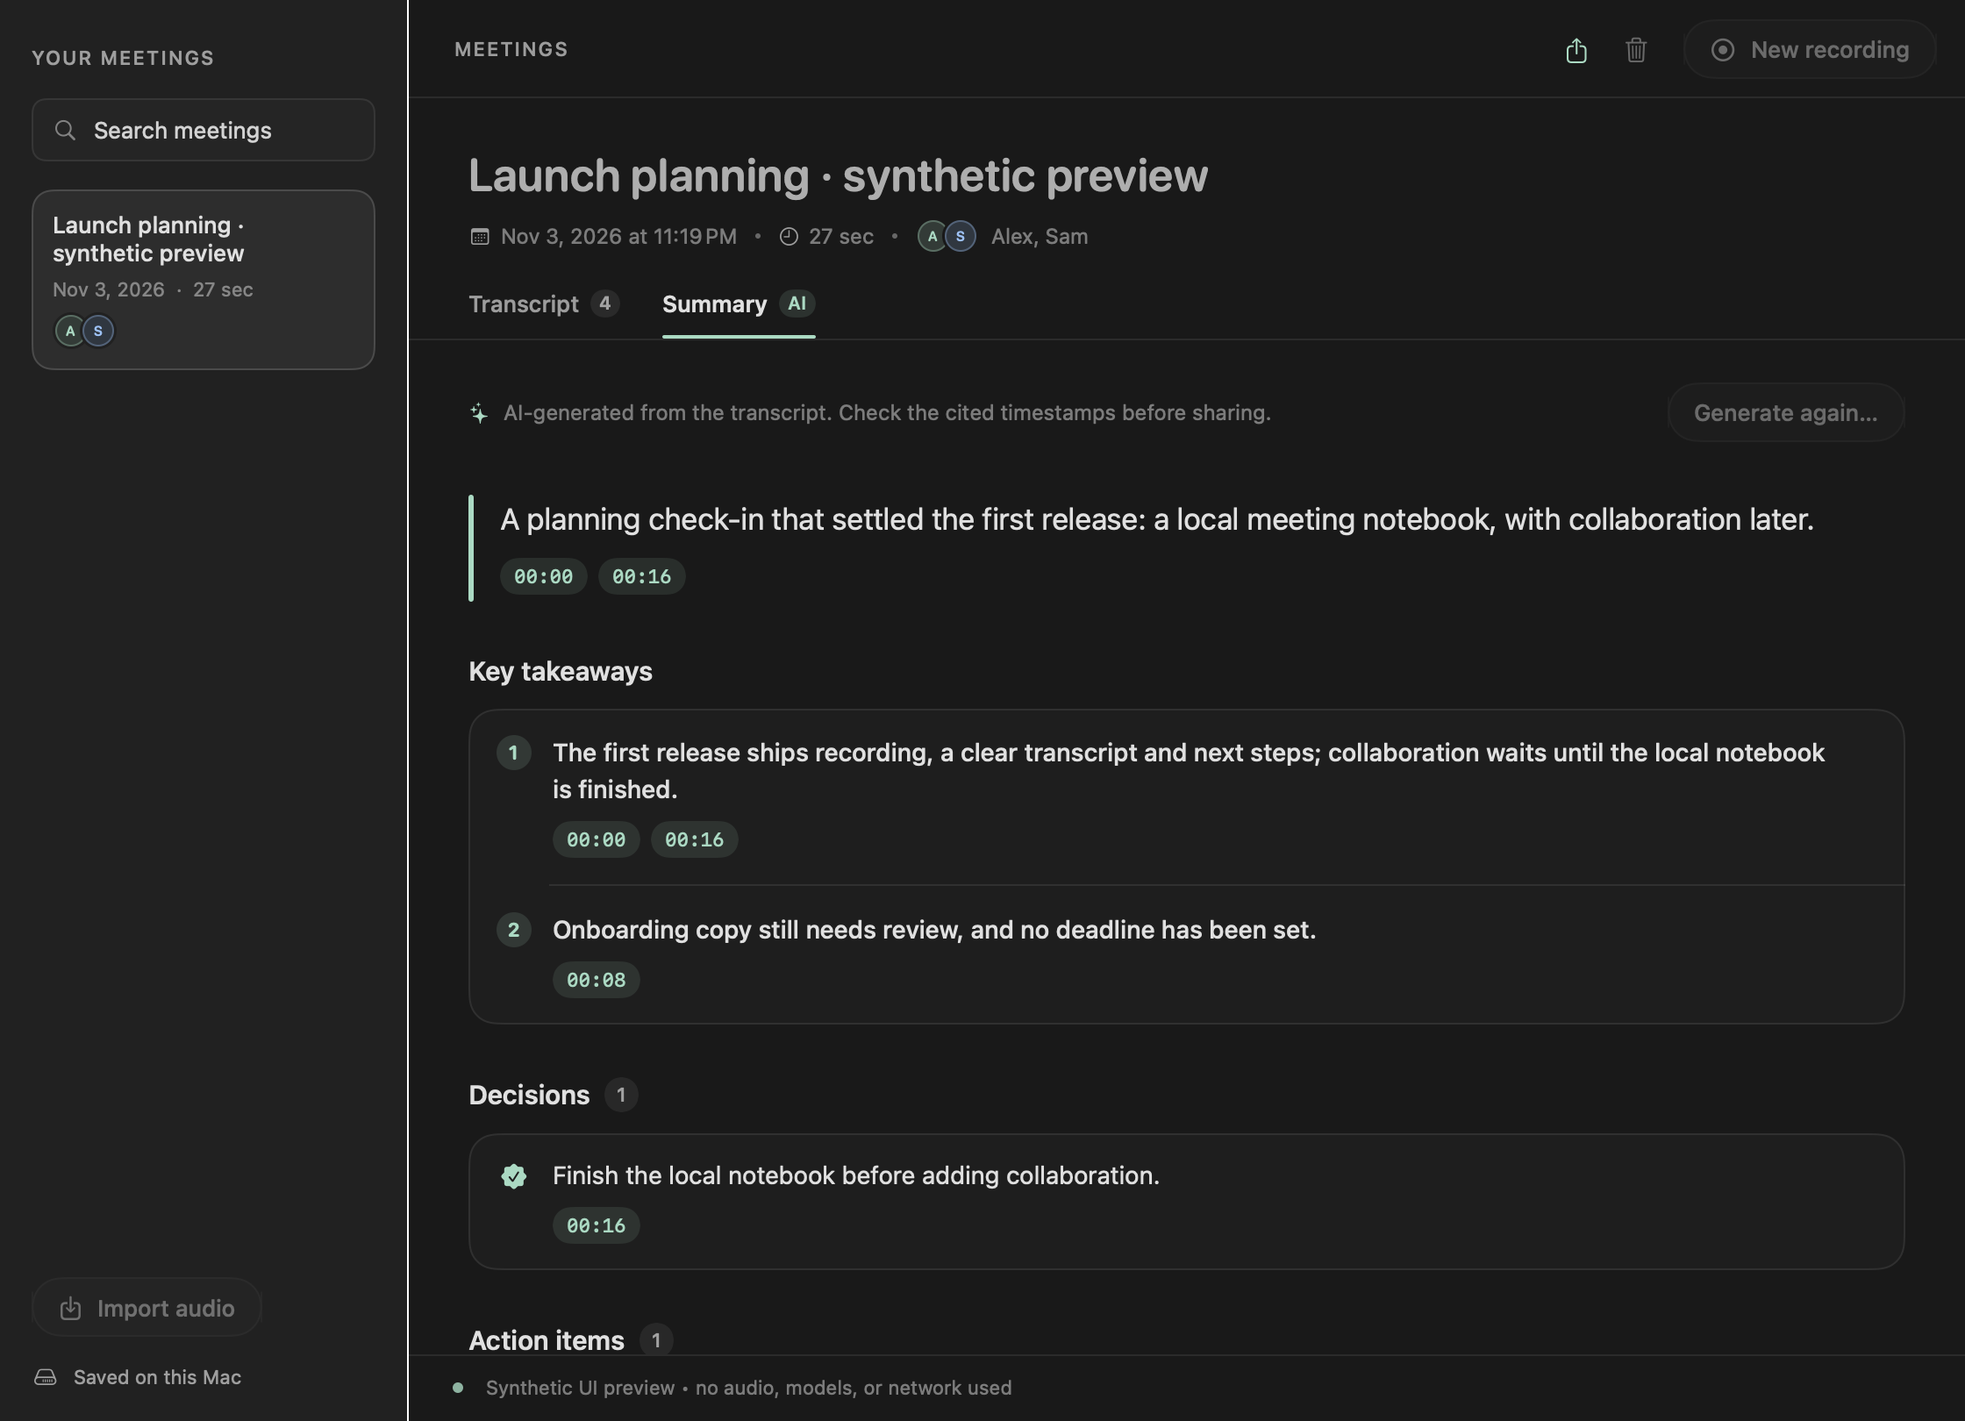
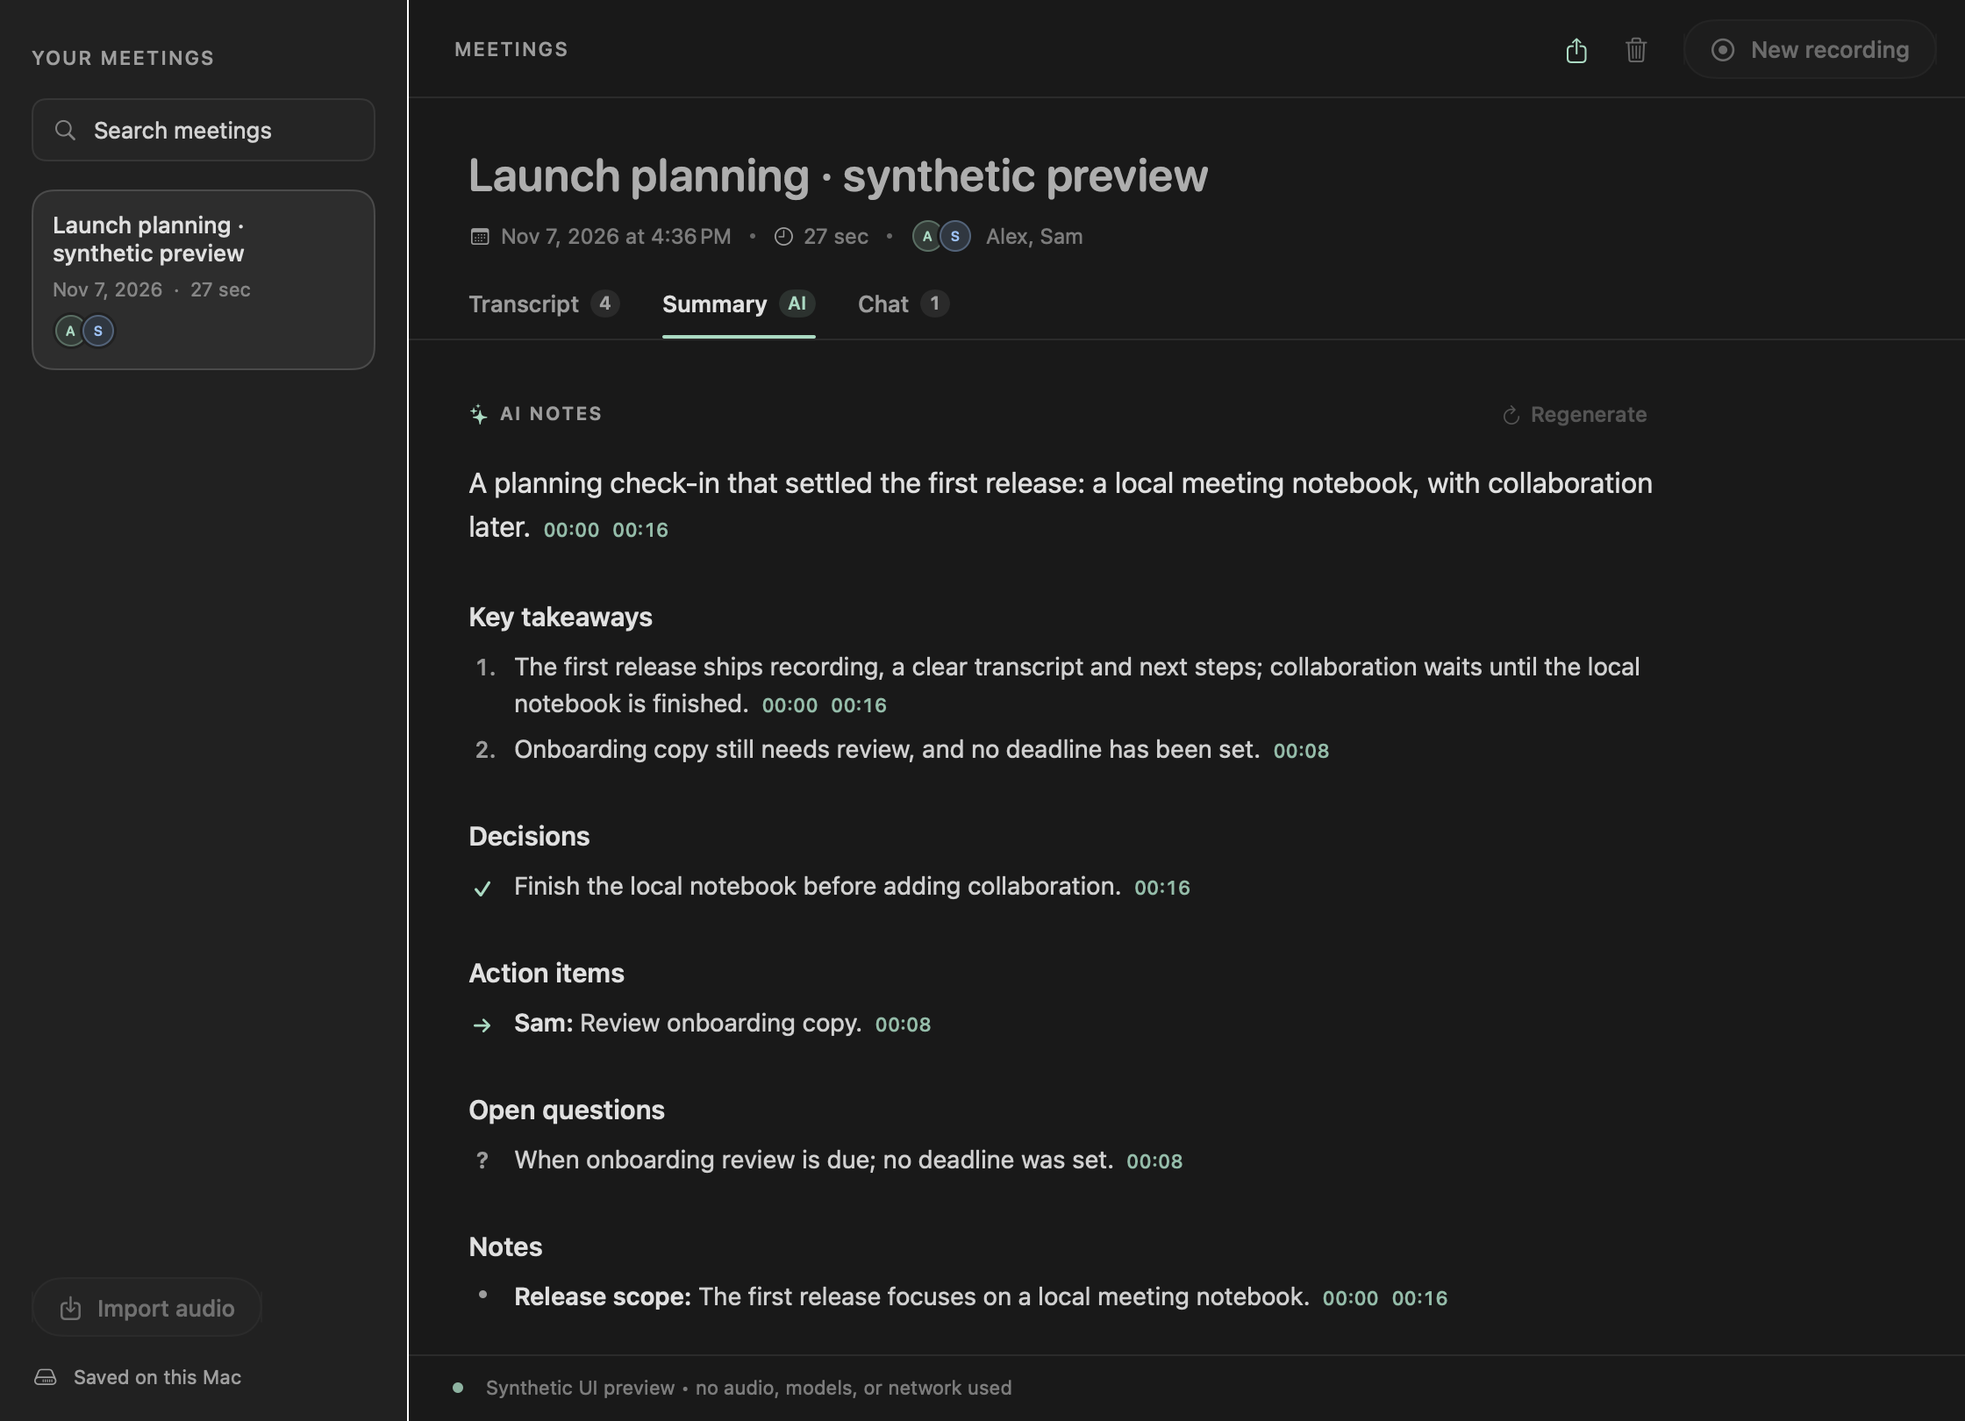
Lay out the meeting summary as a page of notes
Replace the boxed section cards and per-line timestamp chips with a
narrow reading column: plain headings, simple bullets, bold lead-ins for
owners and topics, and inline timestamp links back to the transcript.
Empty sections are left out.

diff --git a/Sources/Coda/MeetingDetailView.swift b/Sources/Coda/MeetingDetailView.swift
@@ -371,34 +371,42 @@ struct ContentView: View {
 
     // MARK: Summary
 
+    /// Reading measure for the notes; long lines are what made the old layout feel like a form.
+    private static let notesWidth: CGFloat = 680
+    private static let citationScheme = "coda-cite"
+
+    /// The summary reads as a written page of notes: headings, plain bullets and quiet
+    /// inline timestamps that jump to the transcript. No cards, no chips per line.
     private func summary(_ meeting: Meeting) -> some View {
         ScrollView {
-            VStack(alignment: .leading, spacing: 30) {
+            Group {
                 if let summary = meeting.summary {
-                    HStack(spacing: 8) {
-                        Image(systemName: "sparkles").font(.system(size: 11)).foregroundStyle(CodaStyle.mint)
-                        Text("AI-generated from the transcript. Check the cited timestamps before sharing.")
-                            .font(CodaStyle.secondaryFont).foregroundStyle(.secondary)
+                    VStack(alignment: .leading, spacing: 0) {
+                        notesHeader
+                        if let brief = summary.brief {
+                            inlineText(brief, meeting: meeting, size: 16, weight: .regular, ink: CodaStyle.ink)
+                                .lineSpacing(6).padding(.top, 18)
+                                .accessibilityLabel("Summary: " + brief.text)
+                        } else {
+                            CodaNotice(kind: .info, text: "This summary was made before Coda added a brief and key takeaways. Generate again to get them.")
+                                .padding(.top, 18)
+                        }
+                        notesSection("Key takeaways", kind: .takeaway, items: summary.takeaways, meeting: meeting)
+                        notesSection("Decisions", kind: .decision, items: summary.decisions, meeting: meeting)
+                        notesSection("Action items", kind: .action, items: summary.actions, meeting: meeting)
+                        notesSection("Open questions", kind: .question, items: summary.openQuestions, meeting: meeting)
+                        notesSection(summary.leadsWithTakeaways ? "Notes" : "Discussion notes", kind: .note,
+                                     items: summary.overview, meeting: meeting)
+                        Text("AI-generated from the transcript and can be wrong. Timestamps link to the moment they cite.")
+                            .font(CodaStyle.captionFont).foregroundStyle(CodaStyle.muted.opacity(0.8))
                             .fixedSize(horizontal: false, vertical: true)
-                        Spacer(minLength: 12)
-                        Button("Generate again…") { model.showSummaryConsent = true }
-                            .buttonStyle(CodaSecondaryButtonStyle()).disabled(model.isOccupied)
+                            .padding(.top, 40)
                     }
-                    if let brief = summary.brief {
-                        briefBlock(brief, meeting: meeting)
-                    } else {
-                        CodaNotice(kind: .info, text: "This summary was made before Coda added a brief and key takeaways. Generate again to get them.")
-                    }
-                    if !summary.takeaways.isEmpty {
-                        summarySection("Key takeaways", kind: .takeaway, items: summary.takeaways, meeting: meeting)
-                    }
-                    summarySection("Decisions", kind: .decision, items: summary.decisions, meeting: meeting)
-                    summarySection("Action items", kind: .action, items: summary.actions, meeting: meeting)
-                    if !summary.openQuestions.isEmpty {
-                        summarySection("Open questions", kind: .question, items: summary.openQuestions, meeting: meeting)
-                    }
-                    summarySection(summary.leadsWithTakeaways ? "Notes" : "Discussion notes", kind: .note,
-                                   items: summary.overview, meeting: meeting)
+                    .environment(\.openURL, OpenURLAction { url in
+                        guard url.scheme == Self.citationScheme else { return .systemAction }
+                        jump(to: url.absoluteString.dropFirst(Self.citationScheme.count + 1).removingPercentEncoding ?? "")
+                        return .handled
+                    })
                 } else {
                     CodaEmptyState(icon: "sparkles", title: "No summary yet",
                                    message: "Get a one-line brief, the key takeaways, decisions, action items and topic notes, each citing the transcript. Only transcript text and speaker names go to OpenAI; your audio stays on this Mac.",
@@ -409,111 +417,125 @@ struct ContentView: View {
                     }
                 }
             }
-            .padding(.top, 24).padding(.bottom, 36)
+            .frame(maxWidth: Self.notesWidth, alignment: .leading)
+            .padding(.top, 30).padding(.bottom, 48)
             .codaColumn()
         }
     }
 
-    /// The bottom line, set as a lead paragraph rather than another list row.
-    private func briefBlock(_ brief: SummaryItem, meeting: Meeting) -> some View {
-        VStack(alignment: .leading, spacing: 12) {
-            Text(brief.text).font(.system(size: 17, weight: .regular)).lineSpacing(6)
-                .foregroundStyle(CodaStyle.ink).textSelection(.enabled)
-                .fixedSize(horizontal: false, vertical: true)
-            citations(brief, meeting: meeting)
+    private var notesHeader: some View {
+        HStack(spacing: 6) {
+            Image(systemName: "sparkles").font(.system(size: 10.5, weight: .semibold)).foregroundStyle(CodaStyle.mint)
+            Text("AI NOTES").font(.system(size: 10.5, weight: .semibold)).tracking(1.1).foregroundStyle(CodaStyle.muted)
+            Spacer(minLength: 12)
+            Button { model.showSummaryConsent = true } label: {
+                Label("Regenerate", systemImage: "arrow.clockwise")
+                    .labelStyle(MetaLabelStyle())
+                    .padding(.horizontal, 8).frame(height: 24).contentShape(Rectangle())
+            }
+            .buttonStyle(CodaNavRowStyle(selected: false))
+            .font(.system(size: 12, weight: .medium)).foregroundStyle(CodaStyle.muted)
+            .disabled(model.isOccupied).opacity(model.isOccupied ? 0.45 : 1)
+            .help("Send the transcript to OpenAI again for a fresh summary")
+            .accessibilityLabel("Generate summary again")
         }
-        .padding(.leading, 18).padding(.vertical, 4)
-        .overlay(alignment: .leading) { Capsule().fill(CodaStyle.mint).frame(width: 3) }
-        .accessibilityElement(children: .contain)
-        .accessibilityLabel("Summary: " + brief.text)
     }
 
     private enum SummaryKind { case takeaway, note, decision, action, question }
 
-    private func summarySection(_ title: String, kind: SummaryKind, items: [SummaryItem], meeting: Meeting) -> some View {
-        VStack(alignment: .leading, spacing: 12) {
-            HStack(spacing: 8) {
-                Text(title).font(CodaStyle.sectionFont)
-                if !items.isEmpty && kind != .takeaway { CodaCountBadge(count: items.count) }
-            }
-            if items.isEmpty {
-                Text("None explicitly stated.").font(CodaStyle.secondaryFont).foregroundStyle(CodaStyle.muted)
-            } else {
-                VStack(spacing: 0) {
+    /// A heading and its bullets. Empty sections are left out, as in a hand-written page.
+    @ViewBuilder
+    private func notesSection(_ title: String, kind: SummaryKind, items: [SummaryItem], meeting: Meeting) -> some View {
+        if !items.isEmpty {
+            VStack(alignment: .leading, spacing: 10) {
+                Text(title).font(.system(size: 15, weight: .semibold)).foregroundStyle(CodaStyle.ink)
+                    .accessibilityAddTraits(.isHeader)
+                VStack(alignment: .leading, spacing: kind == .note ? 14 : 9) {
                     ForEach(Array(items.enumerated()), id: \.offset) { index, item in
-                        if index > 0 { Rectangle().fill(CodaStyle.hairline).frame(height: 1).padding(.leading, 46) }
-                        summaryRow(item, kind: kind, rank: index + 1, meeting: meeting)
+                        notesRow(item, kind: kind, rank: index + 1, meeting: meeting)
                     }
                 }
-                .background(CodaStyle.sunken, in: RoundedRectangle(cornerRadius: CodaStyle.radiusLarge))
-                .overlay(RoundedRectangle(cornerRadius: CodaStyle.radiusLarge).strokeBorder(CodaStyle.hairline))
             }
+            .padding(.top, 32)
         }
     }
 
-    private func summaryRow(_ item: SummaryItem, kind: SummaryKind, rank: Int, meeting: Meeting) -> some View {
-        HStack(alignment: .firstTextBaseline, spacing: 12) {
+    private func notesRow(_ item: SummaryItem, kind: SummaryKind, rank: Int, meeting: Meeting) -> some View {
+        HStack(alignment: .firstTextBaseline, spacing: 10) {
             Group {
                 switch kind {
                 case .takeaway:
-                    Text("\(rank)").font(.system(size: 11, weight: .bold, design: .rounded)).foregroundStyle(CodaStyle.mint)
-                        .frame(width: 20, height: 20).background(CodaStyle.mint.opacity(0.14), in: Circle())
-                        .alignmentGuide(.firstTextBaseline) { $0[VerticalAlignment.center] + 5 }
-                case .note: Circle().fill(CodaStyle.mint.opacity(0.8)).frame(width: 5, height: 5).offset(y: -3)
-                case .decision: Image(systemName: "checkmark.seal.fill").foregroundStyle(CodaStyle.mint)
-                case .action: Image(systemName: "circle").foregroundStyle(CodaStyle.muted)
-                case .question: Image(systemName: "questionmark.circle").foregroundStyle(CodaStyle.speakerColor(2))
+                    Text("\(rank).").font(.system(size: 13, weight: .medium)).monospacedDigit().foregroundStyle(CodaStyle.muted)
+                case .decision:
+                    Image(systemName: "checkmark").font(.system(size: 10, weight: .bold)).foregroundStyle(CodaStyle.mint)
+                case .action:
+                    Image(systemName: "arrow.right").font(.system(size: 10, weight: .bold)).foregroundStyle(CodaStyle.mint)
+                case .question:
+                    Text("?").font(.system(size: 13, weight: .semibold)).foregroundStyle(CodaStyle.muted)
+                case .note:
+                    Circle().fill(CodaStyle.muted).frame(width: 4.5, height: 4.5)
+                        .alignmentGuide(.firstTextBaseline) { $0[VerticalAlignment.bottom] + 4 }
                 }
             }
-            .font(.system(size: 13)).frame(width: 20).accessibilityHidden(true)
-            VStack(alignment: .leading, spacing: 10) {
-                VStack(alignment: .leading, spacing: 4) {
-                    if let topic = item.topic {
-                        Text(topic).font(.system(size: 13, weight: .semibold)).foregroundStyle(CodaStyle.ink)
-                    }
-                    Text(item.text).font(kind == .takeaway ? .system(size: 14, weight: .medium) : CodaStyle.bodyFont)
-                        .foregroundStyle(item.topic == nil ? CodaStyle.ink : CodaStyle.ink.opacity(0.86))
-                        .lineSpacing(4).textSelection(.enabled)
-                        .fixedSize(horizontal: false, vertical: true)
-                }
-                citations(item, meeting: meeting)
-            }
-            Spacer(minLength: 0)
+            .frame(width: 16, alignment: kind == .takeaway ? .trailing : .center)
+            .accessibilityHidden(true)
+            inlineText(item, meeting: meeting, size: 14, weight: .regular, ink: CodaStyle.ink.opacity(0.92),
+                       lead: leadText(item, kind: kind))
+                .lineSpacing(4)
         }
-        .padding(.horizontal, 16).padding(.vertical, 15)
     }
 
-    /// Owner, deadline and up to four transcript links; the rest are counted, not dropped silently.
-    @ViewBuilder private func citations(_ item: SummaryItem, meeting: Meeting) -> some View {
+    /// Bold lead-in: the topic for a note, the owner for an action item.
+    private func leadText(_ item: SummaryItem, kind: SummaryKind) -> String? {
+        switch kind {
+        case .note: item.topic
+        case .action: item.owner
+        default: item.topic
+        }
+    }
+
+    /// One flowing paragraph: optional bold lead, the text, due date, then muted timestamp links.
+    private func inlineText(_ item: SummaryItem, meeting: Meeting, size: CGFloat, weight: Font.Weight, ink: Color,
+                            lead: String? = nil) -> some View {
+        var text = AttributedString()
+        if let lead, !lead.isEmpty {
+            var run = AttributedString(lead + ": ")
+            run.font = .system(size: size, weight: .semibold); run.foregroundColor = CodaStyle.ink
+            text += run
+        }
+        var body = AttributedString(item.text)
+        body.font = .system(size: size, weight: weight); body.foregroundColor = ink
+        text += body
+        if let due = item.dueDate, !due.isEmpty {
+            var run = AttributedString("  · due " + due)
+            run.font = .system(size: size - 1.5, weight: .medium); run.foregroundColor = CodaStyle.muted
+            text += run
+        }
         let cited = item.evidence.compactMap { id in meeting.segments.first { $0.id == id } }
-        if item.owner != nil || item.dueDate != nil || !cited.isEmpty {
-            CodaFlowLayout(spacing: 6) {
-                if let owner = item.owner { CodaTag(icon: "person.fill", text: owner) }
-                if let due = item.dueDate { CodaTag(icon: "calendar", text: due) }
-                ForEach(cited.prefix(4)) { segment in citation(segment) }
-                if cited.count > 4 {
-                    CodaTag(text: "+\(cited.count - 4)")
-                        .help(cited.dropFirst(4).map { timestamp($0.start) }.joined(separator: ", "))
-                }
-            }
+        for segment in cited.prefix(4) {
+            text += AttributedString("  ")
+            var link = AttributedString(timestamp(segment.start))
+            link.font = .system(size: 11, weight: .medium).monospacedDigit()
+            link.foregroundColor = CodaStyle.mint.opacity(0.85)
+            let id = segment.id.addingPercentEncoding(withAllowedCharacters: .urlPathAllowed) ?? segment.id
+            link.link = URL(string: "\(Self.citationScheme):\(id)")
+            text += link
         }
+        if cited.count > 4 {
+            var more = AttributedString("  +\(cited.count - 4)")
+            more.font = .system(size: 11, weight: .medium); more.foregroundColor = CodaStyle.muted
+            text += more
+        }
+        return Text(text).tint(CodaStyle.mint.opacity(0.85)).textSelection(.enabled)
+            .fixedSize(horizontal: false, vertical: true)
+            .frame(maxWidth: .infinity, alignment: .leading)
     }
 
-    /// Citations are links back into the transcript, not decorative brackets.
-    private func citation(_ segment: Segment) -> some View {
-        Button {
-            focusedSegment = segment.id
-            withAnimation(CodaStyle.motion(reduceMotion, duration: 0.2)) { tab = "Transcript" }
-        } label: {
-            Text(timestamp(segment.start)).font(.system(size: 11, weight: .medium, design: .monospaced))
-            .foregroundStyle(CodaStyle.mint)
-            .padding(.horizontal, 8).frame(height: 21)
-            .background(CodaStyle.mint.opacity(0.11), in: Capsule())
-            .contentShape(Capsule())
-        }
-        .buttonStyle(.plain)
-        .help("Show this moment in the transcript")
-        .accessibilityLabel("Show \(timestamp(segment.start)) in the transcript")
+    /// Citations are links back into the transcript.
+    private func jump(to segmentID: String) {
+        guard !segmentID.isEmpty else { return }
+        focusedSegment = segmentID
+        withAnimation(CodaStyle.motion(reduceMotion, duration: 0.2)) { tab = "Transcript" }
     }
 
     // MARK: Empty and pending
@@ -680,6 +702,7 @@ struct RecordingOptionsView: View {
                             }
                             .toggleStyle(CodaSwitchStyle())
                         }
+                        if model.recordingSpeakerCount > 0 { SpeakerNameFields(model: model) }
                     }
                 }
                 Rectangle().fill(CodaStyle.hairline).frame(height: 1)
@@ -742,7 +765,7 @@ struct RecordingOptionsView: View {
     }
 
     private var speakerHint: String {
-        if model.recordingSpeakerCount > 0 { return "Include yourself. Coda looks for exactly this many voices." }
+        if model.recordingSpeakerCount > 0 { return "Include yourself. Coda looks for exactly this many voices. Names go to voices in the order they first speak; you can rename them afterwards." }
         if usableCount != nil, model.useDetectedSpeakerCount {
             return "Includes you. Silent people or shared screens can inflate it."
         }
